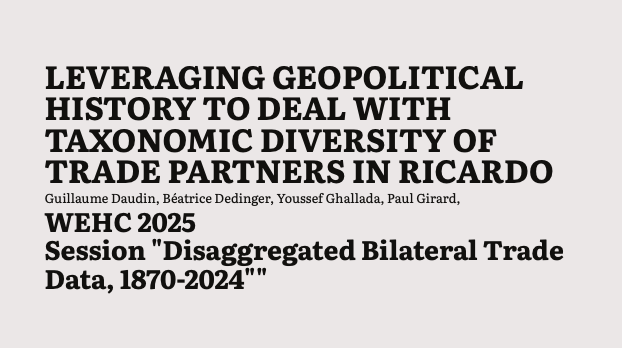
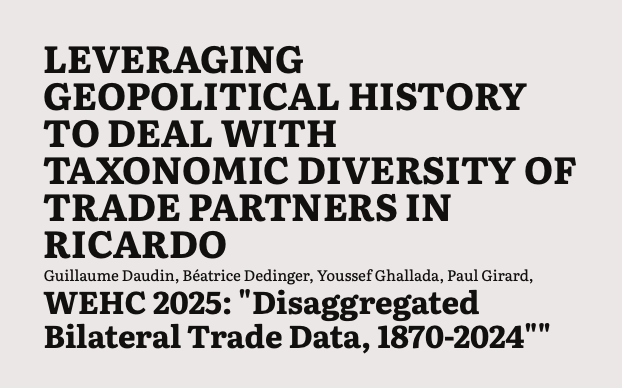
[présentation] Nouveaux graphiques
Pour 1850

Changed region(s): [[0.0611, 0.1149, 0.9469, 0.9195]]

diff --git a/Présentations/2025 WEHC.iapresenter/text.md b/Présentations/2025 WEHC.iapresenter/text.md
@@ -1,7 +1,6 @@
 # Leveraging geopolitical history to deal with taxonomic diversity of trade partners in RICardo
 	Guillaume Daudin, Béatrice Dedinger, Youssef Ghallada, Paul Girard, 
-## WEHC 2025
-## Session "Disaggregated Bilateral Trade Data, 1870-2024""
+## WEHC 2025: "Disaggregated Bilateral Trade Data, 1870-2024""
 
 
 ---
@@ -67,6 +66,30 @@ Here are the steps of the algorithm. The one in italics is the only one that nec
 # Preliminary results
 
 
+---
+ 
+
+
+/assets/Capture d’écran 2025-07-19 à 08.07.55 --1850  original.png
+size: contain
+
+https://gephi.org/gephi-lite/?file=https://gist.githubusercontent.com/paulgirard/e461c39d958d6a2af4e43ee77f871386/raw/0da6c98863439bc2e1d98eb2fd74e8dce3e8761c/1850_original.json
+---
+
+
+
+/assets/Capture d’écran 2025-07-19 à 08.09.18 -- 1850 GPH links.png
+size: contain
+
+https://gephi.org/gephi-lite/?file=https://gist.githubusercontent.com/paulgirard/47a432089ec9c5942206c6764873babf/raw/019a80cdaac97a19f41deabd18148093db69640f/1850_GPH_links.json
+---
+
+
+
+/assets/Capture d’écran 2025-07-19 à 08.10.21 -- 1850 final.png
+size: contain
+
+https://gephi.org/gephi-lite/?file=https://gist.githubusercontent.com/paulgirard/7b82a68de1d8e4bae533185ae2537bb2/raw/d16e4e9476be101fc4792814cbb3c9cf90416a36/1850_final.json
 ---
 
 
